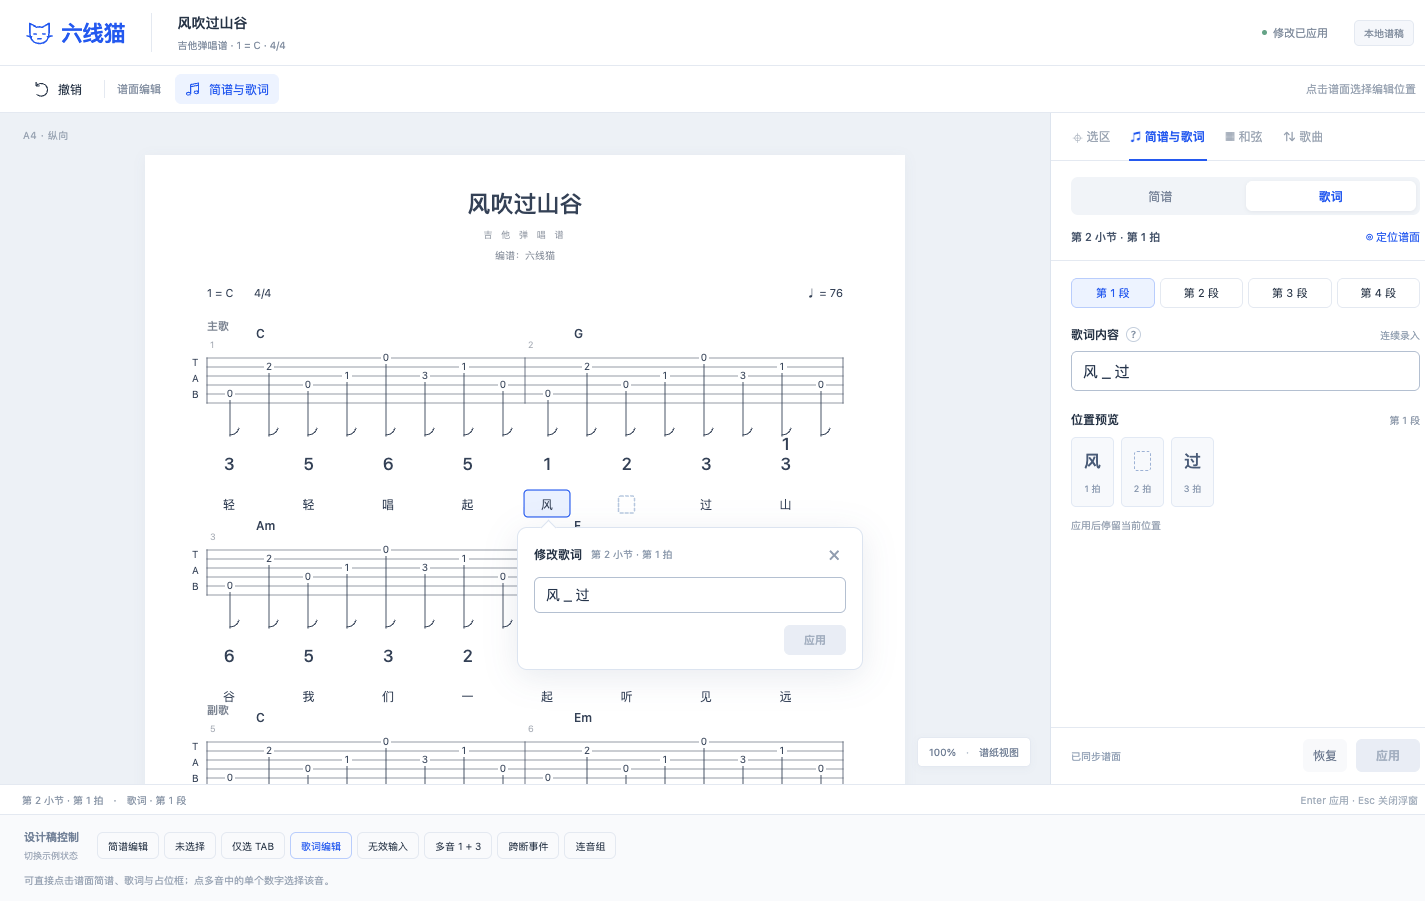
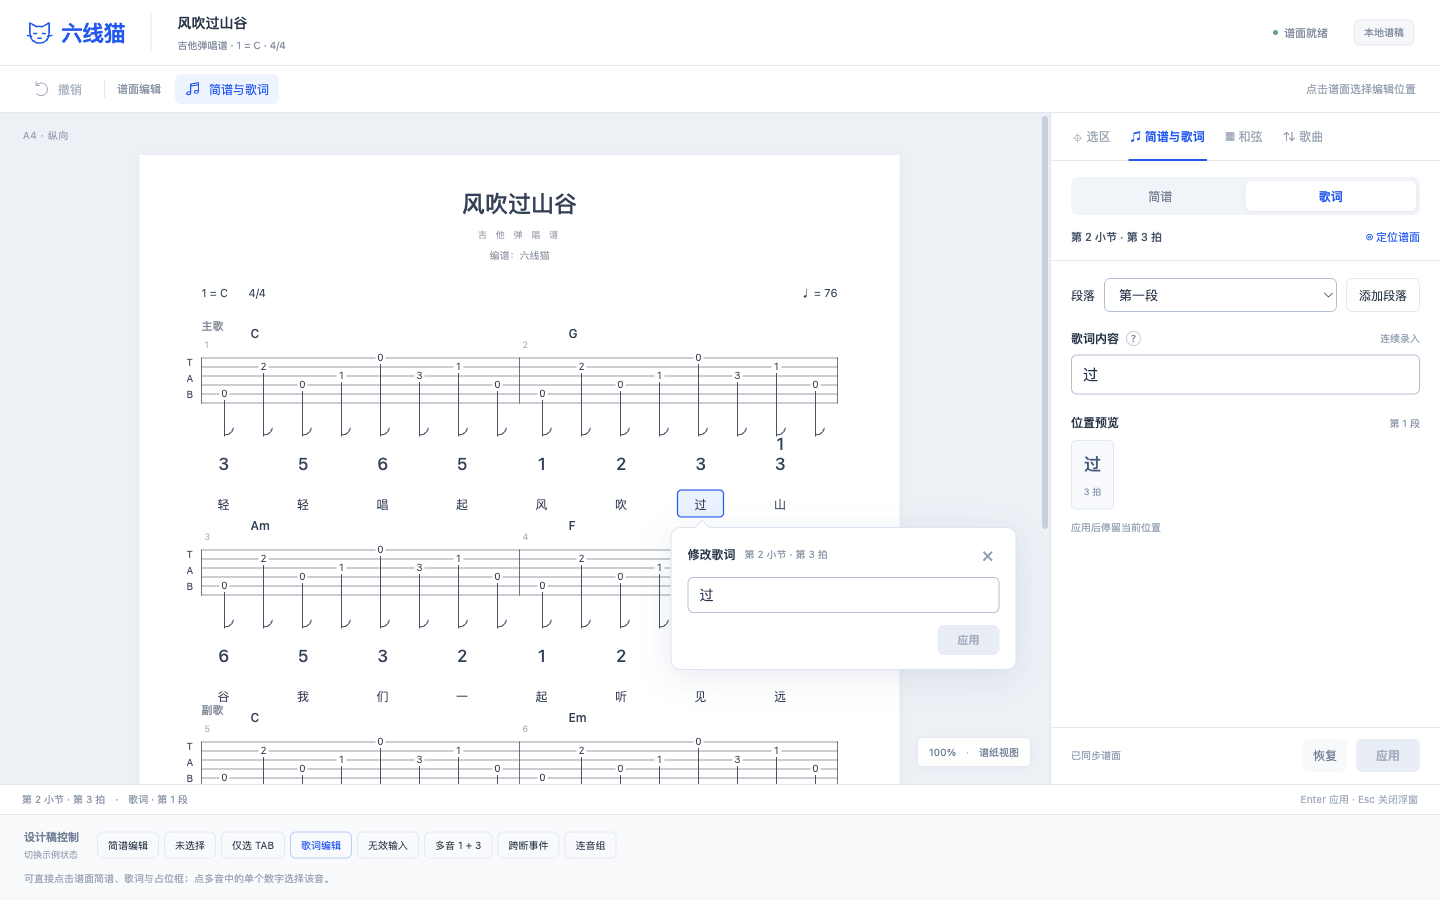
design: revise lyric verse selector and add verse interaction

diff --git a/docs/design-v2/prototypes/lyrics-numbered/prototype.js b/docs/design-v2/prototypes/lyrics-numbered/prototype.js
@@ -5,7 +5,7 @@ const esc=v=>String(v).replace(/[&<>"']/g,c=>({'&':'&amp;','<':'&lt;','>':'&gt;'
 const durations=[['whole','全音符',4],['half','二分音符',2],['quarter','四分音符',1],['eighth','八分音符',.5],['sixteenth','十六分音符',.25],['thirtysecond','三十二分音符',.125]];
 const templates=[['even','均分'],['quarter','四分'],['eighth','八分'],['sixteenth','十六分'],['front','前附点'],['back','后附点']];
 let model=initialModel(), state={mode:'numbered',target:4,member:0,kind:'numbered',verse:0,draft:'1',base:'1',template:'quarter',baseTemplate:'quarter',popover:false,scene:'numbered',condition:'valid',octaveOpen:false}, history=[], composing=false, toastTimer, immediateMessage='';
-function initialModel(){let events=Array.from({length:32},(_,i)=>({id:'n'+i,start:i,duration:1,notes:[{degree:[3,5,6,5,1,2,3,5,6,5,3,2,1,2,3,5][i%16],octave:0,accidental:''}]}));events[7].notes=[{degree:1,octave:0,accidental:''},{degree:3,octave:0,accidental:''}];return {events,lyrics:[Array.from('轻轻唱起风吹过山谷我们一起听见远方的歌声随风越过森林与河流'),Array(32).fill(''),Array(32).fill(''),Array(32).fill('')],commands:0};}
+function initialModel(){let events=Array.from({length:32},(_,i)=>({id:'n'+i,start:i,duration:1,notes:[{degree:[3,5,6,5,1,2,3,5,6,5,3,2,1,2,3,5][i%16],octave:0,accidental:''}]}));events[7].notes=[{degree:1,octave:0,accidental:''},{degree:3,octave:0,accidental:''}];return {events,lyrics:[Array.from('轻轻唱起风吹过山谷我们一起听见远方的歌声随风越过森林与河流')],commands:0};}
 function noteSVG(d='quarter',dots=false){let v='<svg viewBox="0 0 28 32" aria-hidden="true">';if(d==='whole')v+='<ellipse cx="11" cy="21" rx="5" ry="3" transform="rotate(-15 11 21)"/>';else{v+='<ellipse cx="10" cy="23" rx="4" ry="2.7" transform="rotate(-20 10 23)" fill="'+(d==='half'?'none':'currentColor')+'"/><path d="M13.5 22V4"/>';for(let f=0;f<({eighth:1,sixteenth:2,thirtysecond:3}[d]||0);f++)v+='<path d="M13.5 '+(4+f*5)+'c1 4 8 4 5 10"/>';}if(dots)v+='<circle cx="22" cy="22" r="1.5" fill="currentColor" stroke="none"/>';return v+'</svg>';}
 function octaveSVG(o){let v='<svg viewBox="0 0 28 40" aria-hidden="true"><text x="14" y="25" text-anchor="middle" fill="currentColor" font-size="17">1</text>';for(let i=0;i<Math.abs(o);i++)v+='<circle cx="14" cy="'+(o>0?13-i*4:30+i*4)+'" r="1.2" fill="currentColor"/>';return v+'</svg>';}
 function current(){return model.events.find(e=>Math.abs(e.start-state.target)<.00001);}
@@ -41,7 +41,7 @@ function renderPanel(){
   $('#context').innerHTML=state.kind==='none'?'<strong>尚未选择位置</strong>':'<strong>'+location()+'</strong><button data-action="locate" title="定位当前谱面位置">⌾ 定位谱面</button>';
   if(!available){$('#editor').innerHTML='<div class="empty"><svg viewBox="0 0 120 92"><rect x="16" y="8" width="84" height="69" rx="5" fill="#f7f9fd" stroke="#dbe4f1"/><path d="M27 28h61M27 37h61M27 46h61M27 55h61M27 64h61" stroke="#d8e3f2"/><rect x="44" y="32" width="20" height="25" rx="4" fill="#edf3ff" stroke="#a5bef7"/><text x="54" y="49" fill="#7298ef" stroke="none" font-size="15" text-anchor="middle">'+(state.mode==='numbered'?'3':'词')+'</text><path d="m83 60 16 13-9 2-3 9Z" fill="white" stroke="#94b0ed"/></svg><h2>'+(state.mode==='numbered'?(state.kind==='none'?'先选择简谱位置':'从当前谱面位置开始'):'先选择歌词位置')+'</h2>'+(state.mode==='numbered'?'<button class="primary" data-action="start" '+(state.kind==='none'?'disabled title="请先在谱面选择位置"':'')+'>录入简谱</button>':'')+'</div>';$('#actions').hidden=true;return;}
  $('#actions').hidden=false;let parsed=parseDraft(),label=state.mode==='numbered'?'简谱内容':'歌词内容';
- let html=(state.mode==='lyrics'?'<div class="verse-row" role="group" aria-label="歌词段落">'+[0,1,2,3].map(v=>'<button data-verse="'+v+'" aria-pressed="'+(state.verse===v)+'">第 '+(v+1)+' 段</button>').join('')+'</div>':'')+'<label class="field-label" for="sidebar-input">'+label+'<span class="help"><button type="button" data-action="help" aria-label="'+label+'语法说明" aria-expanded="false">?</button><span class="help-text" role="tooltip">'+grammar()+'</span></span><span class="continuous">连续录入</span></label><input id="sidebar-input" class="text-input" data-draft autocomplete="off" spellcheck="false" aria-label="'+label+'" aria-describedby="sidebar-error" value="'+esc(state.draft)+'"><p id="sidebar-error" class="field-error" role="alert"></p>';
+ let html=(state.mode==='lyrics'?'<div class="verse-row"><label for="verse-select">段落</label><select id="verse-select" aria-label="歌词段落">'+model.lyrics.map((_,v)=>'<option value="'+v+'" '+(state.verse===v?'selected':'')+'>第'+['一','二','三','四'][v]+'段</option>').join('')+'</select><button data-action="add-verse" '+(model.lyrics.length>=4?'disabled title="最多支持四段歌词"':'')+'>添加段落</button></div>':'')+'<label class="field-label" for="sidebar-input">'+label+'<span class="help"><button type="button" data-action="help" aria-label="'+label+'语法说明" aria-expanded="false">?</button><span class="help-text" role="tooltip">'+grammar()+'</span></span><span class="continuous">连续录入</span></label><input id="sidebar-input" class="text-input" data-draft autocomplete="off" spellcheck="false" aria-label="'+label+'" aria-describedby="sidebar-error" value="'+esc(state.draft)+'"><p id="sidebar-error" class="field-error" role="alert"></p>';
  if(state.mode==='numbered')html+='<section class="rhythm"><div class="section-label">节奏与范围 <small>按输入时长自动计算</small></div><div class="template-grid">'+templates.map(([id,name])=>'<button data-template="'+id+'" aria-pressed="'+(state.template===id)+'"><span class="template-art">'+(id==='even'?noteSVG('eighth')+noteSVG('eighth'):id==='front'?noteSVG('eighth',true)+noteSVG('sixteenth'):id==='back'?noteSVG('sixteenth')+noteSVG('eighth',true):noteSVG(id)+noteSVG(id))+'</span>'+name+'</button>').join('')+'</div></section><section class="duration-section"><div class="section-label">当前音符时值 <small>即时应用</small></div><div data-duration-host>'+durationButtons()+'</div><p class="inline-note" id="duration-notice"></p></section><section class="mapping" id="mapping"></section>'+octaveHTML();
  else html+='<section class="lyrics-preview"><div class="section-label">位置预览 <small>第 '+(state.verse+1)+' 段</small></div><div id="lyric-map" class="lyric-map"></div><p class="lyric-caption">应用后停留当前位置</p></section>';
  $('#editor').innerHTML=html;$('#actions').innerHTML='<span class="hint" id="draft-status"></span><button data-action="restore">恢复</button><button class="primary" data-action="apply">应用</button>';updateDraftUI();
@@ -63,6 +63,7 @@ function selectScene(scene){state.scene=scene;state.condition='valid';state.mode
 function instantDuration(d,dotToggle=false){let e=current();if(!e||state.kind!=='numbered')return;if(dirty()){immediateMessage='请先应用或恢复正文草稿。';updateDraftUI();return;}let base=durations.find(x=>x[0]===d)?.[2]||1, next=dotToggle?(dotted(e)?base:base*1.5):base;if(state.condition!=='valid'){toast('当前位置包含受保护事件，请先调整选区');return;}let end=e.start+next,cuts=model.events.some(n=>n.start>=e.start&&n.start<end-1e-6&&n.start+n.duration>end+1e-6);if(end>32||cuts){immediateMessage='新时值会跨断已有事件，请选择其他时值。';updateDraftUI();return;}pushHistory();let oldEnd=e.start+e.duration;model.events=model.events.filter(n=>n===e||n.start<e.start||n.start>=end-1e-6);e.duration=next;if(end<oldEnd)model.events.push({id:'rest-'+model.commands,start:end,duration:oldEnd-end,notes:[{degree:'0',octave:0,accidental:''}]});model.events.sort((a,b)=>a.start-b.start);loadDraft();commit('音符时值已应用');}
 function instantPitch(key,value){let e=current(),n=e?.notes[state.member];if(!n||['0','-'].includes(String(n.degree)))return;if(dirty()){toast('请先应用或恢复正文草稿，再修改八度与变音');return;}if(n[key]===value)return;pushHistory();n[key]=value;loadDraft();state.octaveOpen=true;commit('已修改所选音 '+n.degree+' · 可撤销');}
 document.addEventListener('input',e=>{if(!e.target.matches('[data-draft]'))return;state.draft=e.target.value;immediateMessage='';if(!composing)updateDraftUI();});
+document.addEventListener('change',e=>{if(!e.target.matches('#verse-select'))return;const verse=Number(e.target.value);if(verse===state.verse||!Number.isInteger(verse)||verse<0||verse>=model.lyrics.length)return;state.verse=verse;loadDraft();render();$('#verse-select')?.focus();});
 document.addEventListener('compositionstart',e=>{if(e.target.matches('[data-draft]'))composing=true;});document.addEventListener('compositionend',e=>{if(e.target.matches('[data-draft]')){composing=false;state.draft=e.target.value;updateDraftUI();}});
 document.addEventListener('keydown',e=>{if(e.isComposing||composing||e.keyCode===229)return;if(e.key==='Enter'&&e.target.matches('[data-draft]')){e.preventDefault();apply();}if(e.key==='Escape'){state.popover=false;renderPopover();}if((e.metaKey||e.ctrlKey)&&e.key.toLowerCase()==='z'&&!e.target.matches('input')){e.preventDefault();undo();}if((e.key==='Enter'||e.key===' ')&&e.target.matches('.score-hit')){e.preventDefault();e.target.dispatchEvent(new MouseEvent('click',{bubbles:true}));}});
 document.addEventListener('click',e=>{let b=e.target.closest('button,[data-note-target],[data-lyric-target],[data-tab-target]');if(!b||b.disabled)return;
@@ -71,12 +72,12 @@ document.addEventListener('click',e=>{let b=e.target.closest('button,[data-note-
  if(b.hasAttribute('data-tab-target'))return switchTarget('numbered',b.dataset.tabTarget,0,'tab');
  if(b.dataset.scene)return selectScene(b.dataset.scene);
  if(b.dataset.mode){if(state.mode!==b.dataset.mode){state.mode=b.dataset.mode;state.popover=false;loadDraft();render();}return;}
- if(b.hasAttribute('data-verse')){state.verse=Number(b.dataset.verse);loadDraft();render();return;}
  if(b.dataset.template){state.template=b.dataset.template;updateDraftUI();return;}
  if(b.dataset.duration)return instantDuration(b.dataset.duration);
  if(b.hasAttribute('data-octave'))return instantPitch('octave',Number(b.dataset.octave));
  if(b.hasAttribute('data-accidental'))return instantPitch('accidental',b.dataset.accidental);
   switch(b.dataset.action){
+   case 'add-verse':if(state.mode!=='lyrics'||model.lyrics.length>=4)return;pushHistory();model.lyrics.push(Array(32).fill(''));state.verse=model.lyrics.length-1;loadDraft();commit('已添加第'+['一','二','三','四'][state.verse]+'段歌词');$('#sidebar-input')?.focus();break;
    case 'apply':apply();break;
    case 'restore':state.draft=state.base;state.template=state.baseTemplate;immediateMessage='';updateDraftUI();toast('已恢复草稿');break;
    case 'undo':undo();break;
@@ -92,6 +93,6 @@ document.addEventListener('toggle',e=>{if(e.target.matches('.octave-details'))st
 function undo(){if(!history.length)return;let old=history.pop(),count=model.commands;model=old.model;state={...old.state,popover:state.popover};model.commands=count+1;loadDraft();render();toast('已撤销上一次谱面修改');}
  function positionPopover(){const pop=$('#popover');if(pop.hidden)return;const selector=state.mode==='lyrics'?'[data-lyric-target="'+state.target+'"]':'[data-note-target="'+state.target+'"][data-member="'+state.member+'"]';const target=$(selector+' .hit-box');if(!target)return;const canvas=$('.canvas').getBoundingClientRect(),anchor=target.getBoundingClientRect();const left=Math.max(12,Math.min(canvas.width-pop.offsetWidth-12,anchor.left+anchor.width/2-canvas.left-30));let top=anchor.bottom-canvas.top+10;const above=top+pop.offsetHeight>canvas.height-12;if(above)top=anchor.top-canvas.top-pop.offsetHeight-10;pop.style.left=left+'px';pop.style.top=Math.max(12,top)+'px';pop.style.setProperty('--anchor-left',Math.max(12,Math.min(pop.offsetWidth-22,anchor.left+anchor.width/2-canvas.left-left-5))+'px');pop.dataset.placement=above?'above':'below';}
  window.addEventListener('resize',positionPopover);$('#paper-scroll').addEventListener('scroll',positionPopover);new MutationObserver(positionPopover).observe($('#popover'),{childList:true});
- window.designDemo={getState:()=>clone({model,state,historyLength:history.length,validation:parseDraft()}),selectScene,switchTarget,setDraft(value){state.draft=String(value);updateDraftUI();},setTemplate(value){if(templates.some(t=>t[0]===value)){state.template=value;updateDraftUI();}},apply,undo,reset(){model=initialModel();history=[];clearTimeout(toastTimer);$('#toast').classList.remove('show');$('#save-status').textContent='谱面就绪';selectScene('numbered');}};
+ window.designDemo={getState:()=>clone({model,state,historyLength:history.length,validation:parseDraft()}),selectScene,switchTarget,setDraft(value){state.draft=String(value);updateDraftUI();},setTemplate(value){if(templates.some(t=>t[0]===value)){state.template=value;updateDraftUI();}},apply,undo,reset(){model=initialModel();state.verse=0;history=[];clearTimeout(toastTimer);$('#toast').classList.remove('show');$('#save-status').textContent='谱面就绪';selectScene('numbered');}};
 render();
 })();

diff --git a/docs/design-v2/prototypes/lyrics-numbered/prototype.css b/docs/design-v2/prototypes/lyrics-numbered/prototype.css
@@ -2,4 +2,5 @@
 @media(min-width:1500px){.paper-scroll{padding-top:42px}.workspace{max-height:800px}}@media(max-width:1050px){.workspace{grid-template-columns:minmax(0,1fr) 370px}.paper-scroll{padding-left:25px;padding-right:25px}.primary-tabs{padding:0 7px}.primary-tabs button{padding:0 8px}.app-header{padding:0 20px}.toolbar-end{display:none}.popover{left:18px}}@media(max-width:780px){.workspace{display:flex;flex-direction:column;height:auto;max-height:none;min-height:0}.canvas{height:510px;flex:none}.paper-scroll{padding:37px 22px 36px}.inspector{border-left:0;border-top:1px solid var(--line);overflow:visible}.editor{overflow:visible}.inspector>div:not(.context),.inspector>.actions{width:100%;max-width:470px;margin-left:auto;margin-right:auto}.inspector>.segments{width:calc(100% - 40px)}.context{padding-left:22px;padding-right:22px}.primary-tabs{justify-content:center;height:47px;gap:14px}.primary-tabs button{padding:0 10px}.actions{position:sticky;bottom:0;z-index:4}.popover{top:280px;left:24px}.app-header{gap:16px;height:62px}.document{padding-left:16px}.saved{font-size:10px}.local-tag{display:none}.toolbar{padding:0 17px}.review{padding:14px 18px}.statusbar span:last-child{display:none}.empty{padding:36px 0}.octave-details{margin-bottom:5px}.mapping{margin-top:16px}}@media(max-width:430px){.brand{font-size:19px;gap:5px}.brand svg{width:22px}.app-header{padding:0 13px;gap:13px}.document{padding-left:13px}.document strong{font-size:12px}.document span{font-size:9px}.saved{display:none}.canvas{height:445px}.canvas-label{left:17px}.paper-scroll{padding-left:18px;padding-right:18px}.primary-tabs{gap:0;justify-content:space-around;padding:0 8px}.primary-tabs button{padding:0 8px;font-size:11px}.toolbar-label{display:none}.toolbar{height:44px;padding:0 10px;gap:9px}.popover{left:12px;top:229px;max-width:calc(100% - 24px)}.review-states button{padding:0 8px}.statusbar{padding:0 15px}.review{gap:10px}.review>div:first-child{flex-direction:row;gap:9px}.paper-badge{bottom:12px;right:12px}}
 .rhythm{margin-top:14px}.template-grid button{height:44px}.duration-section{margin-top:12px}.mapping{margin-top:14px;padding:9px 12px}.mapping .section-label{margin-bottom:7px}.map-item strong{font-size:19px;line-height:26px}.map-foot{margin-top:4px}.octave-details{margin-top:12px;padding-top:10px}.popover:before{left:var(--anchor-left,37px)}.popover[data-placement=above]:before{top:auto;bottom:-6px;transform:rotate(225deg)}
 @media(max-width:780px){.actions{position:static}}
+.verse-row{align-items:center;gap:9px;margin-bottom:18px}.verse-row label{flex:none;font-size:12px;color:var(--ink)}.verse-row select{flex:1;min-width:0;height:34px;padding:0 10px;border:1px solid #b4c0d1;border-radius:6px;background:#fff;color:var(--ink);cursor:pointer}.verse-row select:focus-visible{outline:2px solid var(--blue);outline-offset:3px}.verse-row button{flex:none;height:34px;padding:0 12px;font-size:12px;white-space:nowrap}
 @media(prefers-reduced-motion:reduce){*{transition:none!important}}

diff --git a/docs/design-v2/prototypes/lyrics-numbered/review.html b/docs/design-v2/prototypes/lyrics-numbered/review.html
@@ -34,7 +34,8 @@
   <header><div><h1>歌词与简谱</h1><p>REQ-007～016 · 侧栏与谱面气泡设计</p></div><a class="open" href="index.html">打开可点击设计稿 ↗</a></header>
   <nav aria-label="设计画面"><a href="#numbered">简谱编辑</a><a href="#lyrics">连续歌词</a><a href="#empty">未选择状态</a><a href="#mobile">窄屏布局</a><a href="../../specs/13-歌词与简谱侧栏设计.md">交互规格</a></nav>
   <section id="numbered"><div class="caption"><h2>01 · 简谱编辑</h2><p>连续录入、节奏符号与映射预览</p></div><a href="screenshots/01-numbered-desktop.png"><img class="shot" src="screenshots/01-numbered-desktop.png" alt="桌面简谱侧栏与谱面气泡设计"></a></section>
-  <section id="lyrics"><div class="caption"><h2>02 · 连续歌词</h2><p>侧栏与气泡同步，空位置显示占位框</p></div><a href="screenshots/02-lyrics-desktop.png"><img class="shot" src="screenshots/02-lyrics-desktop.png" alt="桌面连续歌词编辑设计" loading="lazy"></a></section>
+  <section id="lyrics"><div class="caption"><h2>02 · 连续歌词</h2><p>段落下拉框与添加按钮，侧栏和气泡同步</p></div><a href="screenshots/02-lyrics-desktop.png"><img class="shot" src="screenshots/02-lyrics-desktop.png" alt="段落下拉框与添加段落按钮设计" loading="lazy"></a></section>
+  <section id="added-verse"><div class="caption"><h2>添加段落</h2><p>选中新空白段，保持当前谱面位置</p></div><a href="screenshots/05-lyrics-added-verse.png"><img class="shot" src="screenshots/05-lyrics-added-verse.png" alt="新增第二段歌词后的编辑状态" loading="lazy"></a></section>
   <section id="empty"><div class="caption"><h2>03 · 未选择状态</h2><p>保留清楚的起点，减少长说明</p></div><a href="screenshots/03-numbered-empty.png"><img class="shot" src="screenshots/03-numbered-empty.png" alt="未选择简谱时的精简侧栏" loading="lazy"></a></section>
   <section id="mobile"><div class="caption"><h2>04 · 窄屏布局</h2><p>390px，谱面内部滚动，侧栏下移</p></div><a href="screenshots/04-mobile.png"><img class="shot mobile" src="screenshots/04-mobile.png" alt="390像素窄屏设计" loading="lazy"></a></section>
   <footer>独立设计原型，使用固定示例数据。产品功能尚未在本轮实施。<br><a href="README.md">交付说明及原始需求参考图</a> · <a href="../../index.html">返回设计导航</a></footer>

diff --git a/docs/design-v2/prototypes/lyrics-numbered/README.md b/docs/design-v2/prototypes/lyrics-numbered/README.md
@@ -6,6 +6,8 @@
 
 ## 已确认口径
 
+本次参考图修订：歌词的四个段落按钮改为“段落”下拉框＋“添加段落”。初始第一段，添加后选中新空白段并保留谱面位置；最多四段，支持撤销新增。侧栏、气泡与位置预览同步切换。
+
 - 移除拆分与合并。
 - 简谱按输入时值自动替换，覆盖默认允许，无固定范围、手动覆盖开关及强制填满。
 - 歌词空输入清空当前位置；`_` 清空一个位置；普通空格仅分词。
@@ -48,6 +50,8 @@ python3 -m http.server 4178 --bind 127.0.0.1
 
 - [01 · 简谱与气泡同步编辑](screenshots/01-numbered-desktop.png)
 - [02 · 连续歌词及空位置](screenshots/02-lyrics-desktop.png)
+- [05 · 添加并选中新段落](screenshots/05-lyrics-added-verse.png)
+- [06 · 歌词段落组合的窄屏画面](screenshots/06-lyrics-mobile.png)
 - [03 · 未选简谱、已有 TAB 位置](screenshots/03-numbered-empty.png)
 - [04 · 390px 窄屏完整画面](screenshots/04-mobile.png)
 
@@ -55,7 +59,9 @@ python3 -m http.server 4178 --bind 127.0.0.1
 
 脚本语法检查、交付文件链接与截图检查通过；最终原型浏览器控制台无错误。上述结果仅适用于设计原型，模拟 composition 事件不能代替真实系统中文输入法验收。
 
-自动化定位：`#sidebar-input`、`#popover-input`、`[data-template="eighth"]`、`#actions [data-action="apply"]`、`[data-action="restore"]`、`[data-action="undo"]`、`[data-note-target="7"][data-member="1"]`、`[data-accidental="#"]`、`[data-lyric-target="4"]`、`[data-scene]`、`[data-verse]`。`window.designDemo` 提供只用于设计演示的状态查看和场景重置方法。
+参考图修订另通过 11 项浏览器断言：初始段落、旧按钮移除、添加与原地选中、气泡同步、已应用歌词隔离、切换读取、四段上限、撤销新增、720px／390px 组合控件无溢出及无脚本错误。
+
+自动化定位：`#sidebar-input`、`#popover-input`、`[data-template="eighth"]`、`#actions [data-action="apply"]`、`[data-action="restore"]`、`[data-action="undo"]`、`[data-note-target="7"][data-member="1"]`、`[data-accidental="#"]`、`[data-lyric-target="4"]`、`[data-scene]`、`#verse-select`、`[data-action="add-verse"]`。`window.designDemo` 提供只用于设计演示的状态查看和场景重置方法。
 
 ## 范围边界
 

diff --git a/docs/design-v2/specs/13-歌词与简谱侧栏设计.md b/docs/design-v2/specs/13-歌词与简谱侧栏设计.md
@@ -21,7 +21,7 @@
 - 保留右侧一级栏目和“简谱／歌词”二级切换，不新增工作流或全局导航。
 - 位置栏压缩为标题、位置和定位操作；删除“正在编辑原位置”“切换到当前选区”等重复说明。
 - 简谱主体顺序：单行内容输入 → 默认展开的节奏设置 → 节拍映射预览 → 可折叠的八度与变音。
-- 歌词主体顺序：段号 → 单行连续输入 → 对齐预览。第 1～4 段分别编辑。
+- 歌词主体顺序：段落下拉框与“添加段落”按钮同行 → 单行连续输入 → 对齐预览。下拉框显示“第一段”等已有段落，不再平铺四个段落按钮。
 - 面板底部采用紧凑的恢复与应用操作，不重复堆叠状态说明。
 - 桌面谱面与侧栏并列；窄屏谱面内部滚动，面板下移，页面不横向溢出。
 - 产品下方的评审控制只用于切换演示状态，与实际产品操作区域分开。
@@ -76,6 +76,7 @@
 - 编辑态中空位置显示占位框；占位框属于编辑提示，不作为歌词字符印到成品谱面。
 - Enter 与“应用”均提交当前草稿并停留当前位置，不导航到下一处。
 - 侧栏与气泡使用同一草稿。一个表面输入后，另一个即时同步；切换第 1～4 段时读取对应段的已应用内容。
+- 按最新参考图，段落使用下拉框加“添加段落”。示例初始仅第一段；新增空白段后自动选中，保持当前谱面位置，侧栏与气泡同步读取该段内容。沿用最多四段的范围，达到四段时禁用添加并提示原因；新增可撤销。切换或新增段落时丢弃未应用输入，已应用的各段歌词分别保留。
 
 ### 4.3 精简动作 · REQ-015、016
 
